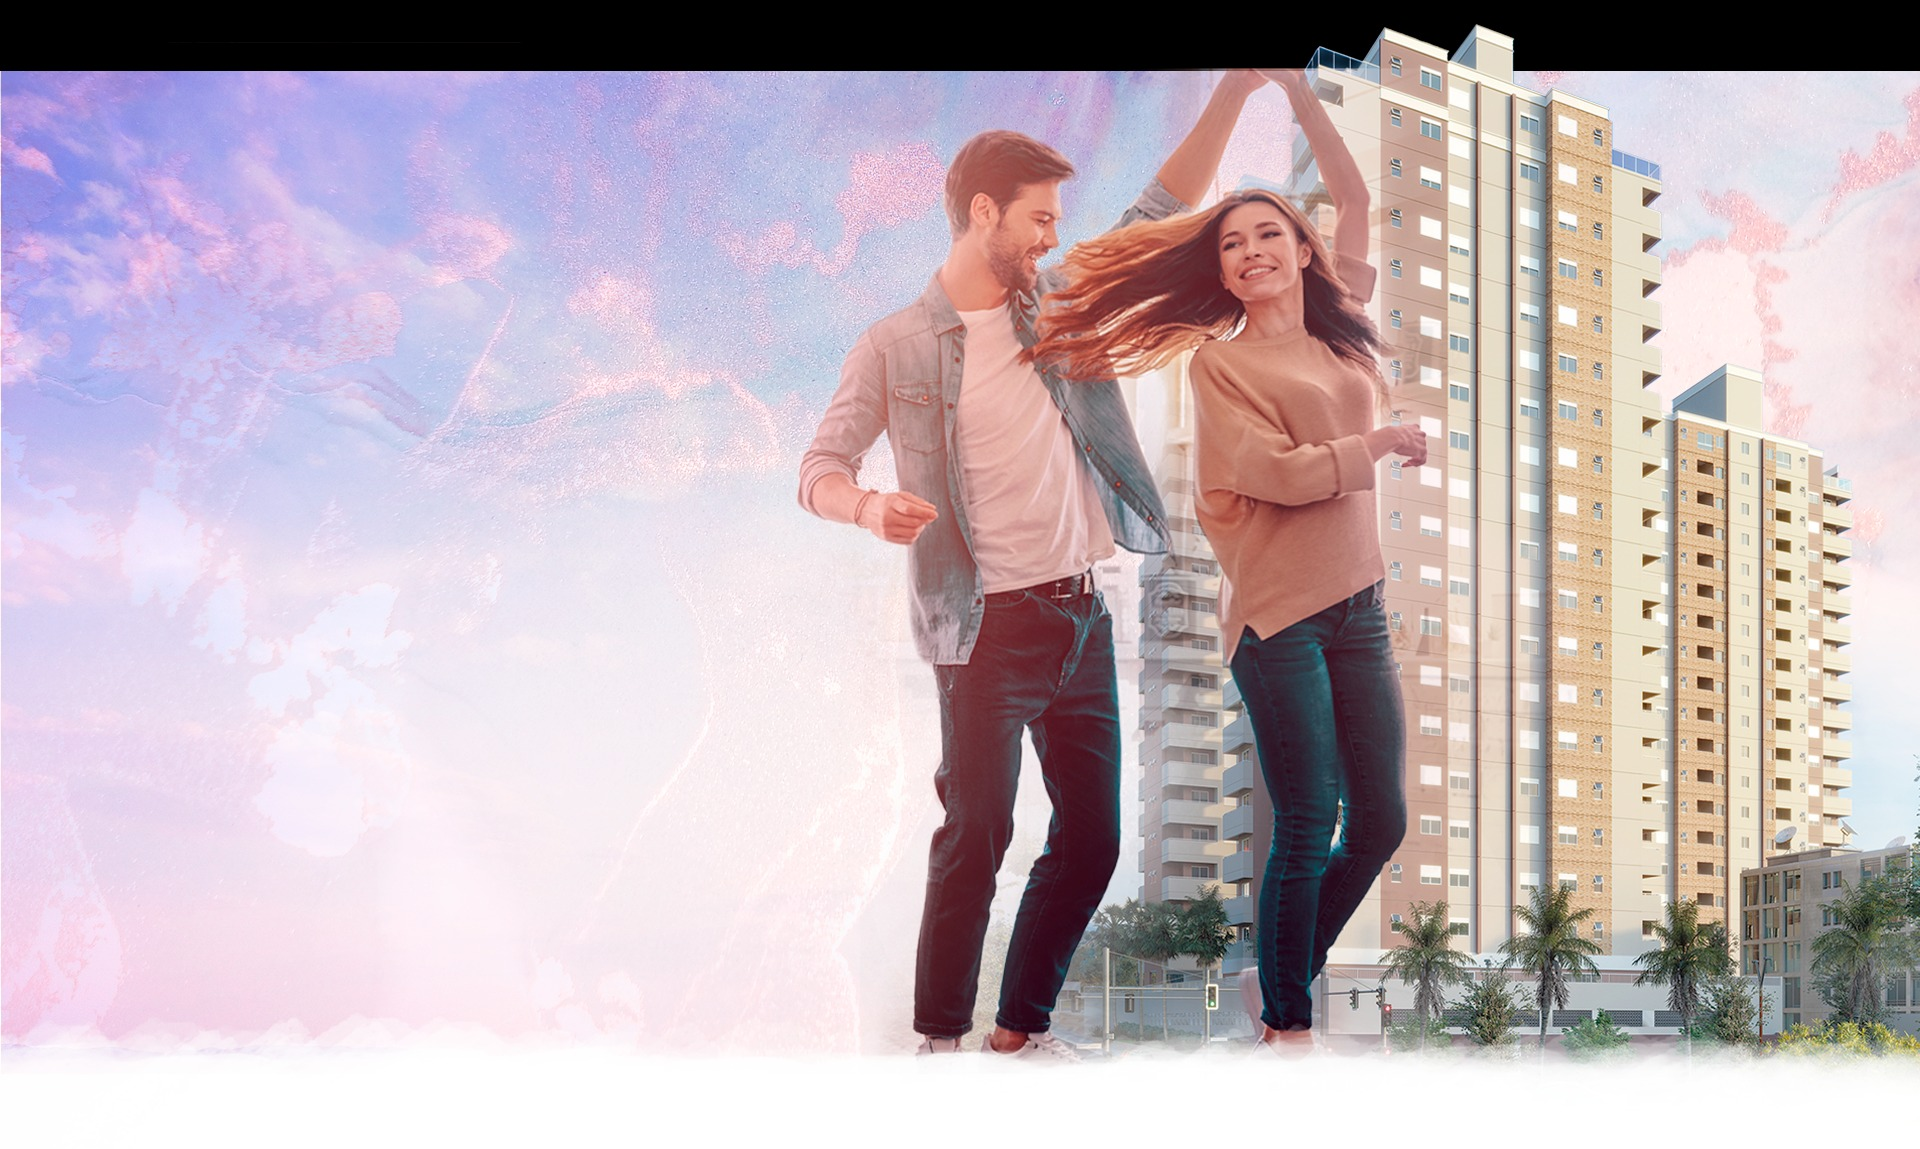
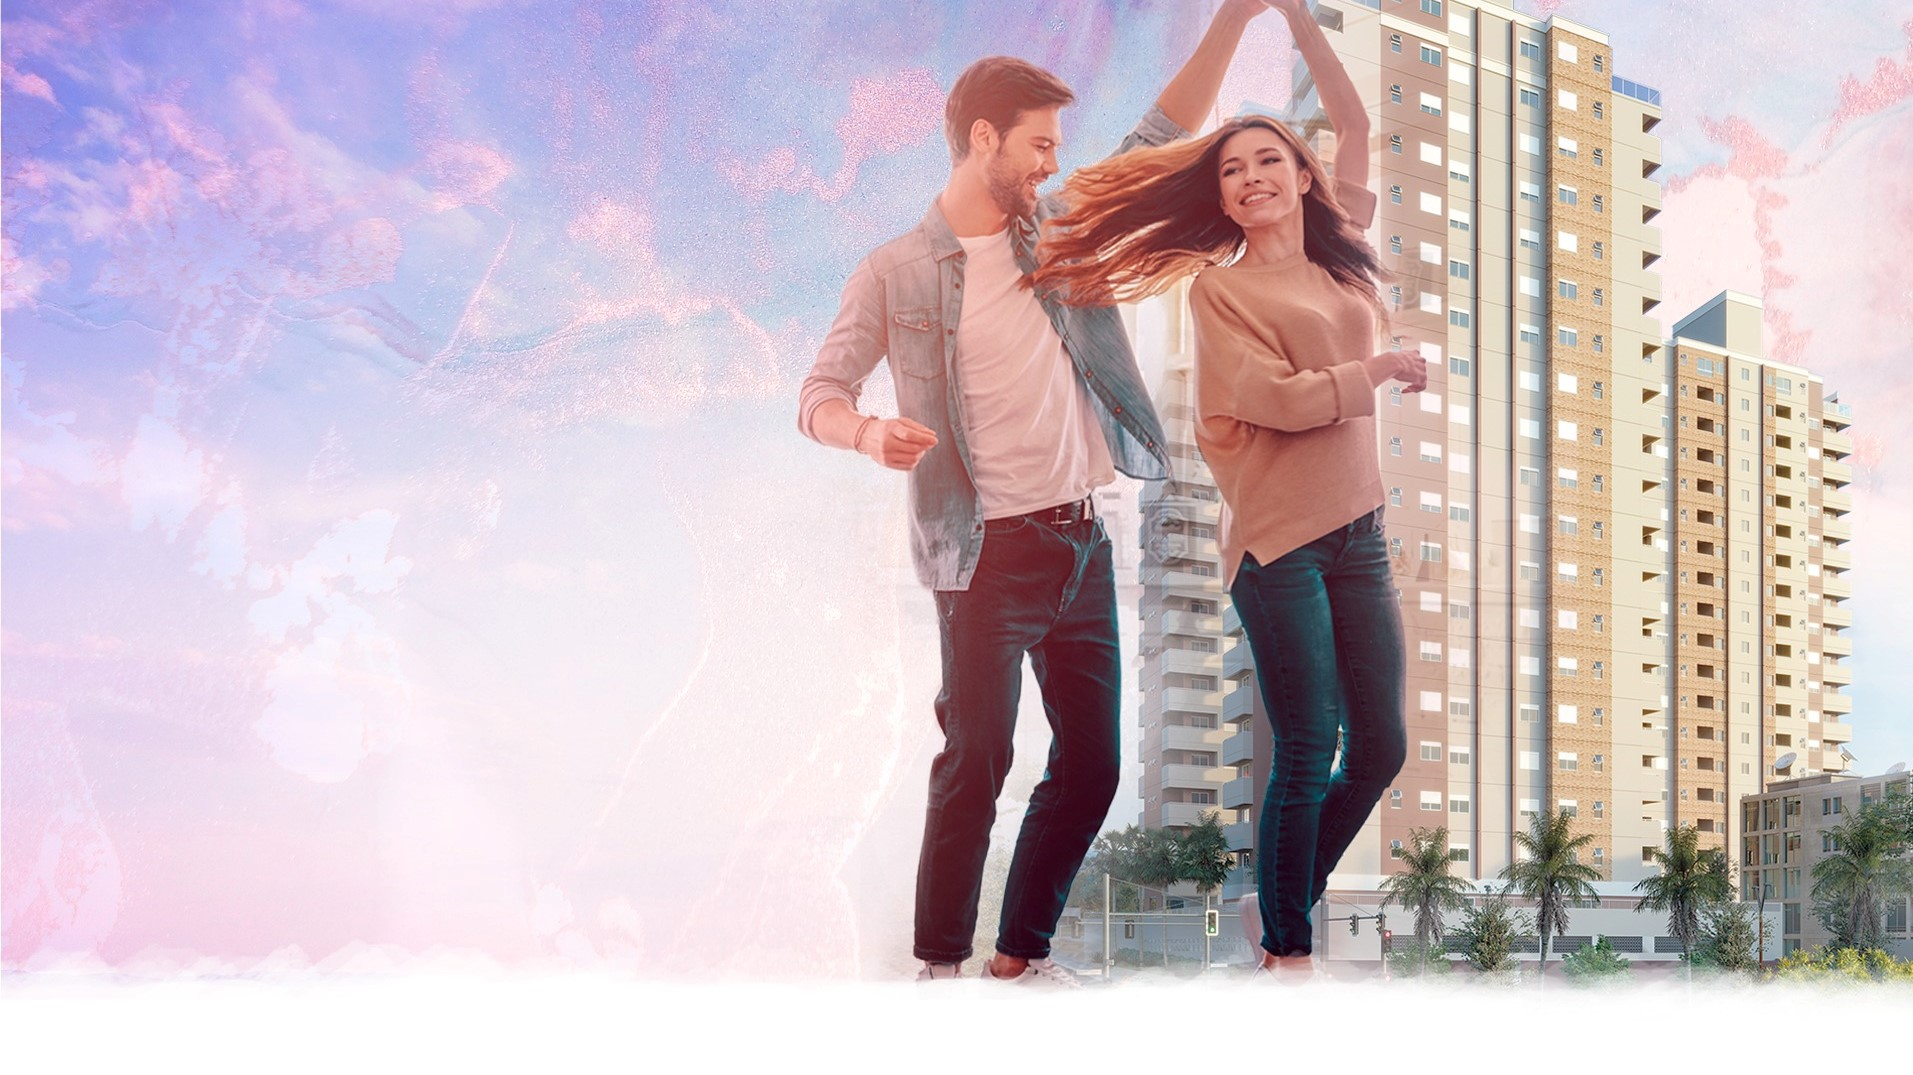
ajustes finais

diff --git a/src/components/plantas/index.js b/src/components/plantas/index.js
@@ -5,13 +5,13 @@ import { Diferencial } from '../'
 
 import plantas from '../../assets/file/Plantas.png'
 
-import planta68 from '../../assets/static/planta68.jpeg'
-import planta82 from '../../assets/static/planta82.jpeg'
-import planta82Sala from '../../assets/static/planta82Sala.jpeg'
-import duplexAB1 from '../../assets/static/duplexAB1.jpeg'
-import duplexAB2 from '../../assets/static/duplexAB2.jpeg'
-import duplexC1 from '../../assets/static/duplexC1.jpeg'
-import duplexC2 from '../../assets/static/duplexC2.jpeg'
+import planta68 from '../../assets/static/planta_68.png'
+import planta82 from '../../assets/static/planta_82.png'
+import planta82Sala from '../../assets/static/planta_82_sala.png'
+import duplexAB1 from '../../assets/static/duplex_AB1.png'
+import duplexAB2 from '../../assets/static/duplex_AB2.png'
+import duplexC1 from '../../assets/static/duplex_C1.png'
+import duplexC2 from '../../assets/static/duplex_C2.png'
 
 import { Splide, SplideSlide } from '@splidejs/react-splide'
 import '@splidejs/splide/dist/css/themes/splide-sea-green.min.css'
@@ -36,8 +36,8 @@ export default function Page(props) {
   return (
     isMobile ?
       <div className="bg-familia">
-        <div className="flex flex-col pl-0 pr-10 py-4" >
-          <div className="familia-title pl-0 pt-0">
+        <div className="flex-auto flex-col pr-10 pb-4" >
+          <div className="familia-title">
             <div className="leading-tight pl-10 px-2" >
               A perfeita combinação<br />
               entre <strong>viver</strong> e se <strong>divertir</strong>!
@@ -128,8 +128,8 @@ export default function Page(props) {
                       <div className="px-4 py-4 pt-8 text-center">
                         <div className="button-69 py-7 px-2 justify-center items-center " onClick={() => { moveSlide(0) }} >Planta 69m³</div>
                         <div className="button-82 py-7 px-2 mt-2" onClick={() => { moveSlide(1) }} >Planta 82m³</div>
-                        <div className="button-c py-7 px-2 mt-2" onClick={() => { moveSlide(2) }} >Duplex Torre C</div>
-                        <div className="button-ab py-7 px-2 mt-2" onClick={() => { moveSlide(3) }} >Duplex Torre AB</div>
+                        <div className="button-ab py-7 px-2 mt-2" onClick={() => { moveSlide(2) }} >Duplex Torre AB</div>
+                        <div className="button-c py-7 px-2 mt-2" onClick={() => { moveSlide(3) }} >Duplex Torre C</div>
                       </div>
                     </div>
                   </div>

diff --git a/src/styles/index.css b/src/styles/index.css
@@ -155,7 +155,7 @@ a {
   background-size: cover;
 }
 .bg-fotos {
-  background: url(../assets/background/bg-fotos.jpeg) bottom center no-repeat;
+  background: url(../assets/background/bg-fotos.jpeg) bottom no-repeat;
   background-size: cover;
 }
 .bg-black {
@@ -291,7 +291,7 @@ padding-top: 50px;
   text-transform: uppercase;
   font-family: "Montserrat-Bold";
   bottom: 120px;
-  left: 540px;
+  left: 740px;
 }
 .mapa-whats {
   font-size: 1.8em;
@@ -299,7 +299,7 @@ padding-top: 50px;
   color: white;
   font-family: "Montserrat-Bold";
   bottom: 80px;
-  left: 460px;
+  left: 625px;
 }
 .mapa-title {
   font-size: 4em;
@@ -314,7 +314,7 @@ padding-top: 50px;
   font-size: 2.4em;
 }
 .mapa-address {
-  font-size: 2em;
+  font-size: 1.5em;
   line-height: 100%;
   color: black;
   font-family: "Montserrat-Bold";
@@ -509,7 +509,7 @@ padding-top: 50px;
 }
 
 
-@media (max-width: 1400px) {
+@media (max-width: 1560px) {
 .mapa-visite {
   font-size: 2em;
   line-height: 120%;
@@ -517,7 +517,7 @@ padding-top: 50px;
   text-transform: uppercase;
   font-family: "Montserrat-Bold";
   bottom: 120px;
-  left: 420px;
+  left: 525px;
 }
 .mapa-whats {
   font-size: 1.8em;
@@ -525,7 +525,7 @@ padding-top: 50px;
   color: white;
   font-family: "Montserrat-Bold";
   bottom: 80px;
-  left: 340px;
+  left: 440px;
 }
 }
 @media (max-width: 991px) {
@@ -578,7 +578,7 @@ padding-top: 50px;
     font-size: 2.4em;
   }
   .mapa-address {
-    font-size: 1.8em;
+    font-size: 1.2em;
     line-height: 100%;
     color: black;
     font-family: "Montserrat-Bold";
@@ -615,11 +615,6 @@ padding-top: 50px;
     background-color: #ffffff;
   }
   
-  .mapa-address {
-    font-size: 1em;
-    line-height: 120%;
-    color: black;
-  }
   
   .diferencial-box {
     align-items: center;
@@ -679,6 +674,11 @@ padding-top: 50px;
     font-family: Montserrat-Medium;
     text-transform: uppercase;
   } 
+  .mapa-address {
+    font-size: 1em;
+    line-height: 120%;
+    color: black;
+  }
   .mapa-visite {
     font-size: 1.5em;
     line-height: 120%;
@@ -698,6 +698,12 @@ padding-top: 50px;
   }
 }
   @media (max-width: 395px) {
+    .mapa-address {
+      font-size: 0.8em;
+      line-height: 100%;
+      color: black;
+      font-family: "Montserrat-Bold";
+    }
     .mapa-title {
       font-size: 2em;
       text-transform: uppercase;

diff --git a/src/components/mapa/index.js b/src/components/mapa/index.js
@@ -13,9 +13,9 @@ export default function Page(props) {
       <div className="flex flex-col">
         <Fade duration={2000}>
           <div className="w-full flex flex-col">
-          <div className="pl-0 md:pl-64 pt-10 md:pt-20">
-            <img src={previlegiada} className="w-auto md:w-2/5 px-10 md:px-0" />
-              <img src={mapa} className="w-auto md:w-4/4 pr-10 md:pr-72 px-10 md:px-0" />
+          <div className="flex-auto justify-center self-center">
+            <img src={previlegiada} className="w-2/3 md:w-auto px-10 md:px-0 pt-14" />
+              <img src={mapa} className="w-auto px-6" />
             </div>
             <div className="w-full">
               <div className="flex flex-grid items-center justify-center">
@@ -24,7 +24,7 @@ export default function Page(props) {
                   target="_blank"
                   href='https://www.google.com/maps/embed?pb=!1m18!1m12!1m3!1d3679.4129870368565!2d-47.41770388499601!3d-22.750049938016616!2m3!1f0!2f0!3f0!3m2!1i1024!2i768!4f13.1!3m3!1m2!1s0x94c89db1ed5dbaa1%3A0xc3901b2acf19fceb!2sResidencial%20Boulevard%20de%20Ros%C3%A9!5e0!3m2!1sen!2sbr!4v1646405277988!5m2!1sen!2sbr" width="600" height="450" style="border:0;" allowfullscreen="" loading="lazy'
                 >
-                  <div className="text-center mapa-address pt-4">
+                  <div className="text-center mapa-address pt-6">
                     Avenida Tiradentes, 457 - Vila Mac Knight
                     <br />
                     Santa Bárbara D'Oeste/SP

diff --git a/src/components/fotos/index.js b/src/components/fotos/index.js
@@ -151,7 +151,7 @@ export default function Page(props) {
 
       :
       <ScrollableAnchor id={'fotos'}>
-        <div className="bg-fotos pt-14 pb-32 md:pb-72">
+        <div className="bg-fotos pt-14 pb-32">
 
           <div className="flex flex-col justify-items-center items-center pb-10">
             <div className="pr-32 md:pr-44 pb-8 md:pb-12">

diff --git a/src/components/topo/index.js b/src/components/topo/index.js
@@ -37,8 +37,6 @@ export default function Page(props) {
     <ScrollableAnchor id={'home'}>
       <div className="bg-topo">
         <Fade>
-          <div className="absolute flex topo-text pt-0 md:pt-2">
-            Aprecie a vida!</div>
           <div className="flex flex-col">
             <img
               src={boulevard}
